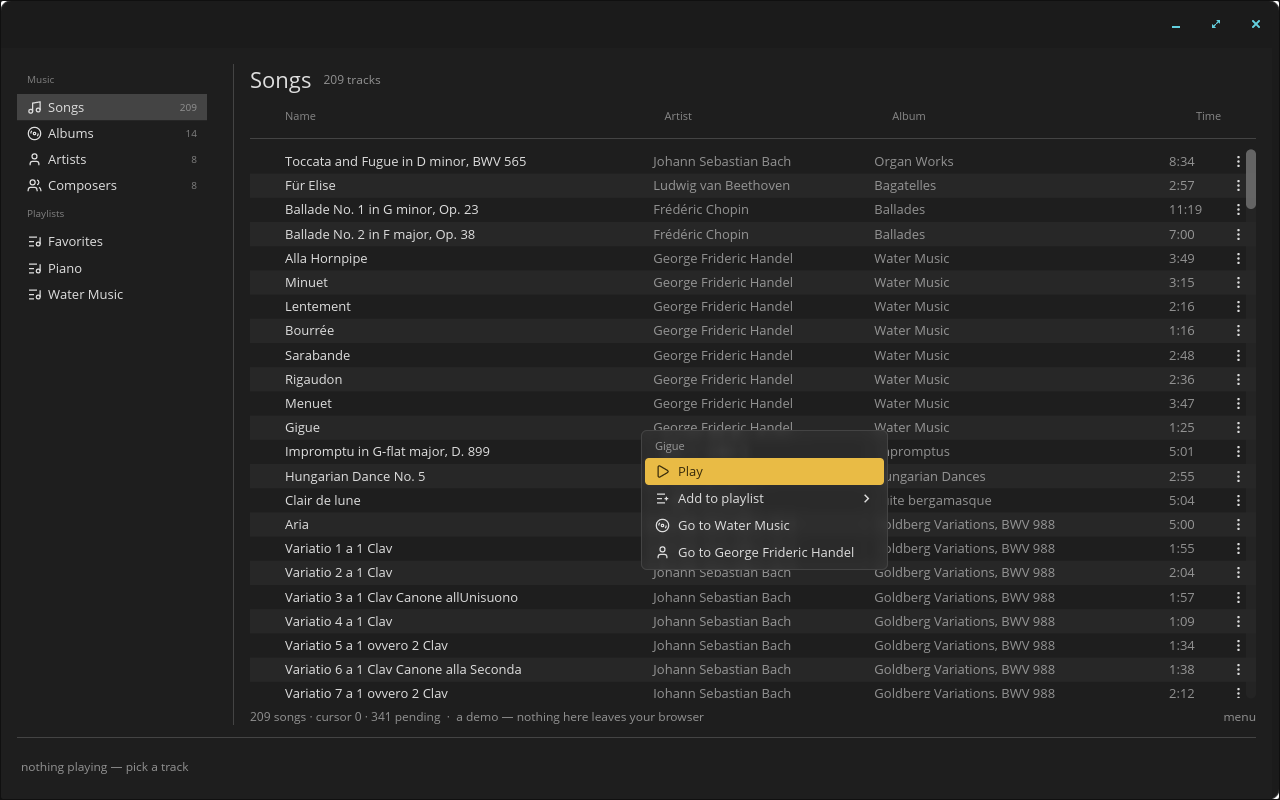
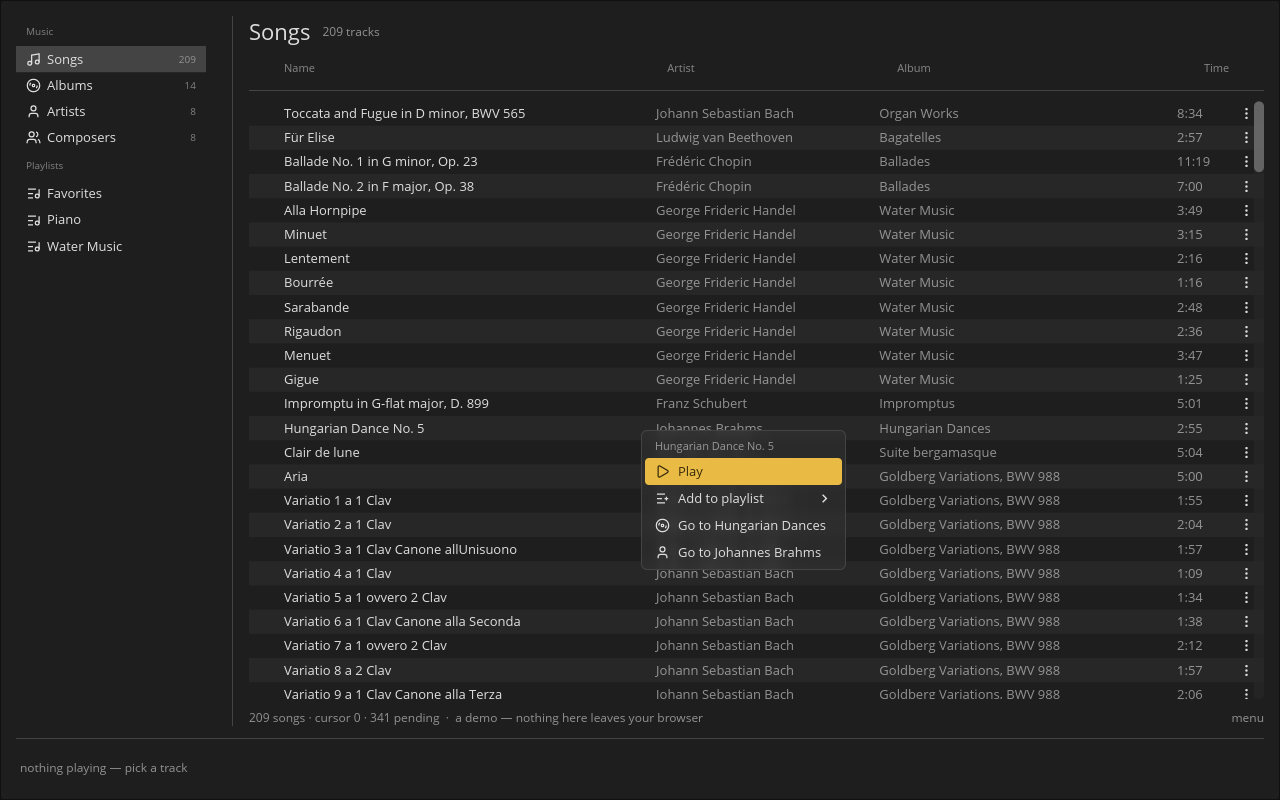
iced: no window chrome in a browser
libcosmic draws client-side decorations — a header bar with the three window
buttons, a rounded window corner and the border padding inside it. On a
desktop that is right and load-bearing; nothing else draws them, so without
them a window cannot be closed or moved. In a browser the window is the tab
and its chrome is the browser's, so those buttons promise something the page
cannot do, above a canvas that should be filling the tab.

`core.window.use_template = false` under `cfg(target_arch = "wasm32")`, in
`init`. `use_template` rather than `show_headerbar`, because the corner and
the padding are chrome too and because everything else the template carries —
the nav bar, the context drawer, the dialogs — this app has never used. So
`view()` is drawn raw, onto a ground that is already harken's own.

The same `cfg` as `Player::AUDIBLE`, the media session, the device picker and
the splash, and for the same reason each of those has it.

`frosted-menu.png` is refreshed: edge to edge now, with four more rows for the
space the header bar was taking. 57 tests, fmt clean.

Claude-Session: https://claude.ai/code/session_01XcBd33WHuwVJf6eCw7CpeG

diff --git a/iced/src/main.rs b/iced/src/main.rs
@@ -6711,6 +6711,31 @@ impl cosmic::Application for App {
     fn init(core: Core, _flags: ()) -> (Self, Task<cosmic::Action<Message>>) {
         let (mut app, task) = App::boot();
         app.core = core;
+
+        // **In a browser the window is the tab, and its chrome is the
+        // browser's.** libcosmic draws client-side decorations — a header bar,
+        // the three window buttons, a rounded window corner and the border
+        // padding inside it — which is exactly right on a desktop, where
+        // nothing else is going to draw them, and is three dead buttons over a
+        // canvas here. Worse than dead: they are the one part of the picture
+        // that promises something the page cannot do.
+        //
+        // `use_template` is the switch rather than `show_headerbar` because
+        // the corner and the padding are chrome too, and because everything
+        // else the template adds — the nav bar, the context drawer, the
+        // dialogs — is something this app does not use, so dropping it costs
+        // nothing. `view()` is then drawn raw, and the ground under it is
+        // already harken's own: the root container paints itself from
+        // `palette::of(theme)` for the reason that rule exists.
+        //
+        // The same `cfg` as `Player::AUDIBLE`, the media session, the device
+        // picker and the splash, and for the same reason each of those has
+        // it: this is a fact about there being no window, not a preference.
+        #[cfg(target_arch = "wasm32")]
+        {
+            app.core.window.use_template = false;
+        }
+
         (app, task.map(cosmic::Action::App))
     }
 

diff --git a/CLAUDE.md b/CLAUDE.md
@@ -3265,6 +3265,29 @@ pointer on its 50ms tick. Gliding *and then settling on the target* is what
 fixes it — the jiggle at the destination is what makes the last point the app
 saw the one that was asked for.
 
+### The window chrome is the desktop's, and a browser has none
+
+libcosmic draws client-side decorations — a header bar with the three window
+buttons, a rounded window corner, and the border padding inside it. On a
+desktop that is right and load-bearing: nothing else draws them, so without
+them there is no way to close or move the window. In a browser the window is
+the tab and its chrome is the browser's, so what libcosmic draws there is
+three buttons that promise something the page cannot do, above a canvas that
+should be filling the tab.
+
+`core.window.use_template = false` under `cfg(target_arch = "wasm32")`, in
+`init`. `use_template` rather than `show_headerbar` because the corner and the
+padding are chrome too, and because everything else the template carries — the
+nav bar, the context drawer, the dialogs — is something this app has never
+used, so dropping the lot costs nothing and `view()` is drawn raw. The ground
+under it is already harken's own, since the root container paints itself from
+`palette::of(theme)`.
+
+The same `cfg` as `Player::AUDIBLE`, the media session, the device picker and
+the splash, and for the same reason: it is a fact about there being no window,
+not a preference. `frosted-menu.png` is the browser after it — edge to edge,
+and four more rows for the space the header bar was taking.
+
 ### Still not done
 
 - **Run, in a browser.** `harken-on-libcosmic.png` is the whole client —
